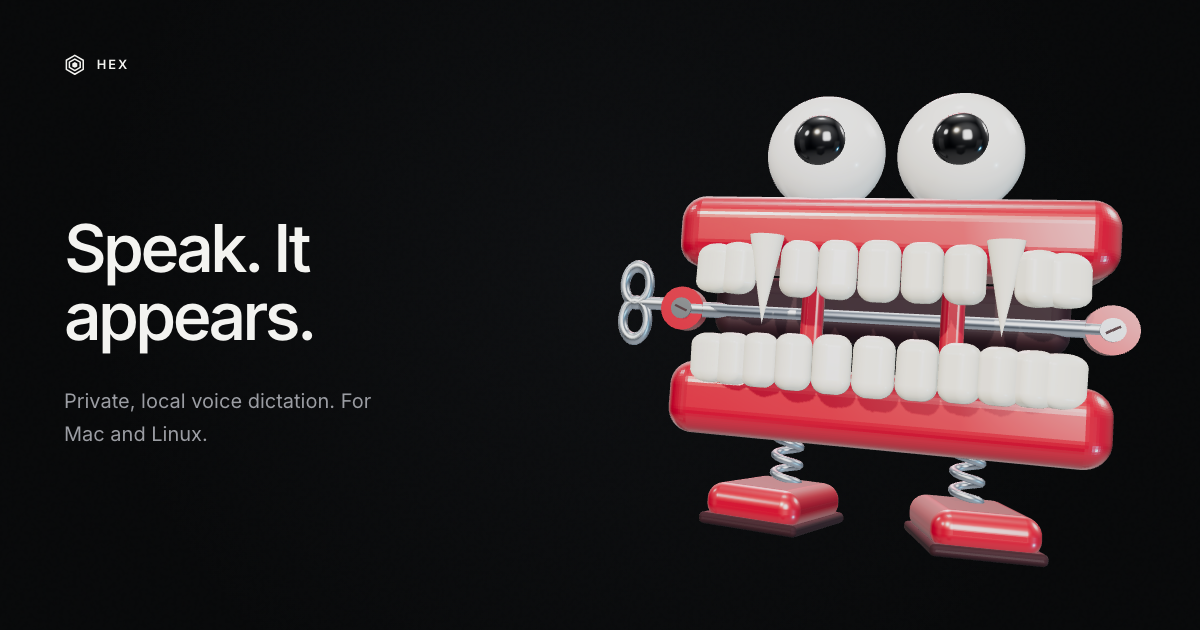
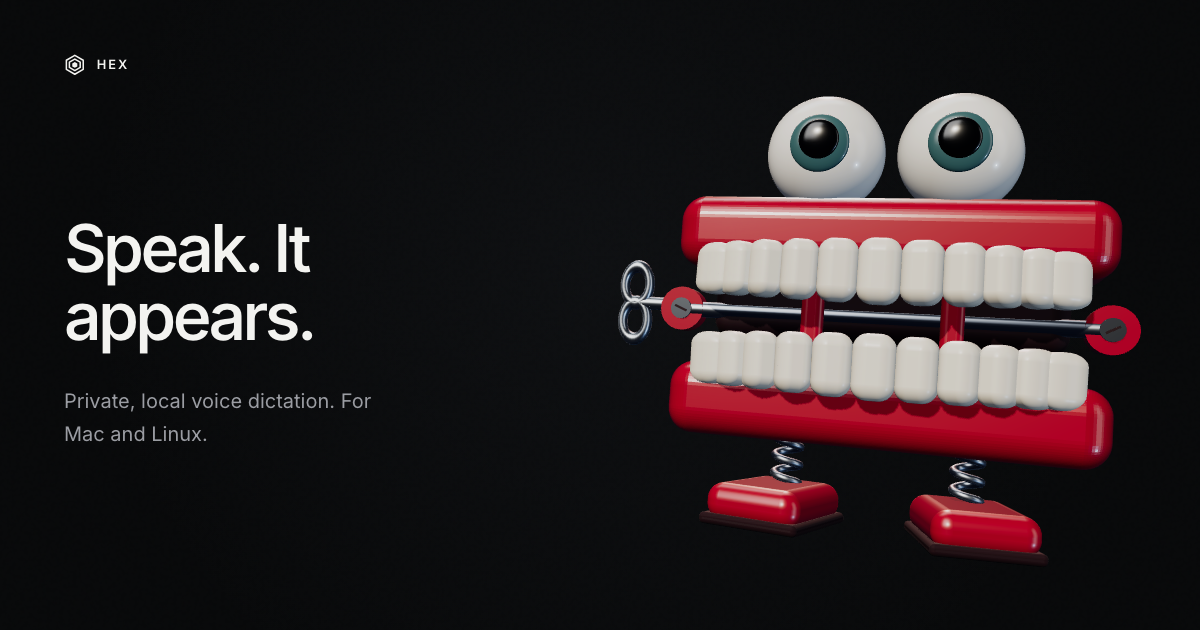
feat(site): refine the teeth and foreshadow their entrance with a spotlight

Changed region(s): [[0.4933, 0.1508, 0.9558, 0.9048]]

diff --git a/site/src/ChatteringTeeth.tsx b/site/src/ChatteringTeeth.tsx
@@ -1,6 +1,5 @@
 import { useEffect, useRef } from "react"
 import * as THREE from "three"
-import { RoomEnvironment } from "three/examples/jsm/environments/RoomEnvironment.js"
 import { RoundedBoxGeometry } from "three/examples/jsm/geometries/RoundedBoxGeometry.js"
 
 function createJaw(upper: boolean, toothMaterial: THREE.Material, shellMaterial: THREE.Material) {
@@ -24,8 +23,7 @@ function createJaw(upper: boolean, toothMaterial: THREE.Material, shellMaterial:
     const normalized = amount * 2 - 1
     const angle = normalized * 1.04
     const side = Math.abs(normalized)
-    const canine = upper && (index === 2 || index === 8)
-    const tooth = new THREE.Mesh(canine ? new THREE.ConeGeometry(0.24, 0.95, 40) : toothGeometry, toothMaterial)
+    const tooth = new THREE.Mesh(toothGeometry, toothMaterial)
 
     tooth.position.set(
       Math.sin(angle) * 2.02,
@@ -34,12 +32,7 @@ function createJaw(upper: boolean, toothMaterial: THREE.Material, shellMaterial:
     )
     tooth.rotation.y = -angle * 0.92
     tooth.rotation.z = upper ? normalized * 0.025 : -normalized * 0.025
-    tooth.scale.set(0.9 - side * 0.22, canine ? 1 : 0.88 - side * 0.13, 1 + side * 0.32)
-    if (canine) {
-      tooth.position.y -= 0.12
-      tooth.rotation.z = Math.PI
-      tooth.scale.z = 0.7
-    }
+    tooth.scale.set(0.94 - side * 0.24, 0.95 - side * 0.16, 1 + side * 0.32)
     jaw.add(tooth)
   }
 
@@ -61,26 +54,48 @@ export default function ChatteringTeeth() {
     })
     renderer.outputColorSpace = THREE.SRGBColorSpace
     renderer.toneMapping = THREE.ACESFilmicToneMapping
-    renderer.toneMappingExposure = 1.15
+    renderer.toneMappingExposure = 1
     renderer.shadowMap.enabled = true
     renderer.shadowMap.type = THREE.PCFSoftShadowMap
 
     const scene = new THREE.Scene()
     const pmrem = new THREE.PMREMGenerator(renderer)
-    const room = new RoomEnvironment()
-    const environment = pmrem.fromScene(room, 0.04)
+    // Three large softboxes give the lacquer readable highlights instead of
+    // reflecting a busy room. The environment is baked once, entirely locally.
+    const studio = new THREE.Scene()
+    studio.background = new THREE.Color(0x202433)
+    for (const [position, size, intensity] of [
+      [[-4, 5, 4], [4, 6], 5],
+      [[5, 1, 3], [2, 5], 2],
+      [[0, 6, -3], [5, 2], 4],
+    ] as const) {
+      const panel = new THREE.Mesh(
+        new THREE.PlaneGeometry(...size),
+        new THREE.MeshBasicMaterial({ color: new THREE.Color(intensity, intensity, intensity) }),
+      )
+      panel.position.set(position[0], position[1], position[2])
+      panel.lookAt(0, 0, 0)
+      studio.add(panel)
+    }
+    const environment = pmrem.fromScene(studio, 0.08)
     scene.environment = environment.texture
-    scene.environmentIntensity = 0.8
-    room.dispose()
+    scene.environmentIntensity = 0.85
+    studio.traverse(object => {
+      if (object instanceof THREE.Mesh) {
+        object.geometry.dispose()
+        object.material.dispose()
+      }
+    })
     pmrem.dispose()
 
     const camera = new THREE.PerspectiveCamera(36, 1, 0.1, 40)
     camera.position.set(0, 0, 9)
 
-    const toothMaterial = new THREE.MeshPhysicalMaterial({ color: 0xfff4d9, roughness: 0.25, clearcoat: 0.7, clearcoatRoughness: 0.16 })
-    const shellMaterial = new THREE.MeshPhysicalMaterial({ color: 0xa50725, roughness: 0.3, metalness: 0.18, clearcoat: 1, clearcoatRoughness: 0.18 })
-    const eyeMaterial = new THREE.MeshPhysicalMaterial({ color: 0xfffaf0, roughness: 0.16, clearcoat: 1 })
-    const pupilMaterial = new THREE.MeshPhysicalMaterial({ color: 0x030509, roughness: 0.12, clearcoat: 1 })
+    const toothMaterial = new THREE.MeshPhysicalMaterial({ color: 0xfff4df, roughness: 0.3, clearcoat: 0.45, clearcoatRoughness: 0.23 })
+    const shellMaterial = new THREE.MeshPhysicalMaterial({ color: 0xb20a29, roughness: 0.32, metalness: 0.08, clearcoat: 0.85, clearcoatRoughness: 0.23 })
+    const eyeMaterial = new THREE.MeshPhysicalMaterial({ color: 0xfffaf0, roughness: 0.23, clearcoat: 0.6 })
+    const pupilMaterial = new THREE.MeshPhysicalMaterial({ color: 0x030509, roughness: 0.2, clearcoat: 0.8 })
+    const irisMaterial = new THREE.MeshPhysicalMaterial({ color: 0x41676a, roughness: 0.3, clearcoat: 0.7 })
     const innerMaterial = new THREE.MeshStandardMaterial({ color: 0x260613, roughness: 0.75 })
     const metalMaterial = new THREE.MeshStandardMaterial({ color: 0xaab4c0, roughness: 0.24, metalness: 1 })
 
@@ -90,16 +105,20 @@ export default function ChatteringTeeth() {
     const lowerJaw = createJaw(false, toothMaterial, shellMaterial)
 
     const eyeGeometry = new THREE.SphereGeometry(0.64, 40, 28)
-    const pupilGeometry = new THREE.SphereGeometry(0.27, 32, 20)
+    const pupilGeometry = new THREE.SphereGeometry(0.21, 32, 20)
     const pupils: THREE.Mesh[] = []
     for (const x of [-0.7, 0.7]) {
       const eye = new THREE.Mesh(eyeGeometry, eyeMaterial)
       eye.position.set(x, 1.7, 0.54)
       upperJaw.add(eye)
 
+      const iris = new THREE.Mesh(new THREE.SphereGeometry(0.31, 40, 24), irisMaterial)
+      iris.position.set(x, 1.7, 1.105)
+      iris.scale.z = 0.28
+      upperJaw.add(iris)
       const pupil = new THREE.Mesh(pupilGeometry, pupilMaterial)
-      pupil.position.set(x, 1.7, 1.11)
-      pupil.scale.z = 0.58
+      pupil.position.set(x, 1.7, 1.18)
+      pupil.scale.z = 0.3
       pupil.userData.homeX = x
       pupils.push(pupil)
       upperJaw.add(pupil)
@@ -179,7 +198,7 @@ export default function ChatteringTeeth() {
       }
     })
     scene.add(new THREE.AmbientLight(0x879bb5, 0.3))
-    const keyLight = new THREE.DirectionalLight(0xfff2dc, 3.5)
+    const keyLight = new THREE.DirectionalLight(0xfff2dc, 2.4)
     keyLight.position.set(-3.5, 4.5, 6)
     scene.add(keyLight)
     keyLight.castShadow = true
@@ -187,12 +206,59 @@ export default function ChatteringTeeth() {
     Object.assign(keyLight.shadow.camera, { left: -8, right: 8, top: 8, bottom: -8, near: 0.1, far: 30 })
     keyLight.shadow.normalBias = 0.025
     keyLight.shadow.bias = -0.0001
-    const fillLight = new THREE.DirectionalLight(0x62bde8, 1.25)
+    const fillLight = new THREE.DirectionalLight(0xa4c9ef, 0.8)
     fillLight.position.set(4, -2, 3)
     scene.add(fillLight)
-    const rimLight = new THREE.DirectionalLight(0xff5273, 3)
+    const rimLight = new THREE.DirectionalLight(0xffb7a5, 2)
     rimLight.position.set(1, 3, -4)
     scene.add(rimLight)
+
+    // A visible pool of light announces the landing before the actor arrives.
+    const lightCanvas = document.createElement("canvas")
+    lightCanvas.width = lightCanvas.height = 256
+    const lightContext = lightCanvas.getContext("2d")!
+    const glow = lightContext.createRadialGradient(128, 128, 0, 128, 128, 128)
+    glow.addColorStop(0, "rgba(255, 226, 177, 0.8)")
+    glow.addColorStop(0.48, "rgba(255, 221, 162, 0.5)")
+    glow.addColorStop(0.75, "rgba(255, 216, 150, 0.12)")
+    glow.addColorStop(1, "rgba(255, 216, 150, 0)")
+    lightContext.fillStyle = glow
+    lightContext.fillRect(0, 0, 256, 256)
+    const lightTexture = new THREE.CanvasTexture(lightCanvas)
+    lightTexture.colorSpace = THREE.SRGBColorSpace
+    const poolMaterial = new THREE.MeshBasicMaterial({
+      map: lightTexture, transparent: true, depthWrite: false,
+      blending: THREE.AdditiveBlending, toneMapped: false,
+    })
+    const pool = new THREE.Mesh(new THREE.PlaneGeometry(1, 1), poolMaterial)
+    scene.add(pool)
+    const beamCanvas = document.createElement("canvas")
+    beamCanvas.width = 256
+    beamCanvas.height = 512
+    const beamContext = beamCanvas.getContext("2d")!
+    const beamGradient = beamContext.createLinearGradient(0, 0, 0, 512)
+    beamGradient.addColorStop(0, "rgba(255, 229, 186, 0)")
+    beamGradient.addColorStop(0.35, "rgba(255, 229, 186, 0.04)")
+    beamGradient.addColorStop(1, "rgba(255, 229, 186, 0.13)")
+    beamContext.fillStyle = beamGradient
+    beamContext.filter = "blur(8px)"
+    beamContext.beginPath()
+    beamContext.moveTo(128, 0)
+    beamContext.lineTo(244, 512)
+    beamContext.lineTo(12, 512)
+    beamContext.closePath()
+    beamContext.fill()
+    const beamTexture = new THREE.CanvasTexture(beamCanvas)
+    beamTexture.colorSpace = THREE.SRGBColorSpace
+    const beamMaterial = new THREE.MeshBasicMaterial({
+      map: beamTexture, transparent: true, depthWrite: false,
+      blending: THREE.AdditiveBlending, toneMapped: false,
+    })
+    const beam = new THREE.Mesh(new THREE.PlaneGeometry(1, 1), beamMaterial)
+    scene.add(beam)
+    const spotlight = new THREE.SpotLight(0xffdfb2, 0, 15, Math.PI / 7, 0.8, 0)
+    spotlight.position.set(0, 5, 4)
+    scene.add(spotlight, spotlight.target)
 
     const timer = new THREE.Timer()
     timer.connect(document)
@@ -246,6 +312,18 @@ export default function ChatteringTeeth() {
       const wide = window.innerWidth >= 1000
       const x = Math.max(0, stageWidth / 2 - root.scale.x * 3.5)
       const y = stageHeight / 2 - root.scale.x * 3.3 - 0.35
+      const lightIn = THREE.MathUtils.smoothstep(elapsed, 1.4, 2.4)
+      const lightOut = 1 - THREE.MathUtils.smoothstep(elapsed, 5, 6.2)
+      const lightLevel = poster ? 0 : reducedMotion.matches ? (elapsed >= 1.4 ? 0.6 : 0) : lightIn * lightOut
+      poolMaterial.opacity = lightLevel * 0.65
+      pool.position.set(0, y - root.scale.x * 2.45, -0.1)
+      pool.scale.set(root.scale.x * 8, root.scale.x * 1.2, 1)
+      const beamTop = stageHeight / 2 + 0.2
+      beam.position.set(0, (beamTop + pool.position.y) / 2, -0.2)
+      beam.scale.set(root.scale.x * 8, beamTop - pool.position.y, 1)
+      beamMaterial.opacity = lightLevel
+      spotlight.target.position.set(0, y, 0)
+      spotlight.intensity = lightLevel * 1.2
       const stops = wide
         ? [[0, y], [x, y], [x, -y], [0, -y], [-x, -y], [-x, y]]
         : [[0, y], [x * 0.45, y], [-x * 0.45, y]]
@@ -311,8 +389,13 @@ export default function ChatteringTeeth() {
       shellMaterial.dispose()
       eyeMaterial.dispose()
       pupilMaterial.dispose()
+      irisMaterial.dispose()
       innerMaterial.dispose()
       metalMaterial.dispose()
+      poolMaterial.dispose()
+      lightTexture.dispose()
+      beamMaterial.dispose()
+      beamTexture.dispose()
       environment.dispose()
       keyLight.shadow.map?.dispose()
       renderer.dispose()

diff --git a/site/index.html b/site/index.html
@@ -15,7 +15,7 @@
       content="Private, local voice dictation. Hold Option, speak, and release."
     />
     <meta property="og:url" content="https://hex.kitlangton.dev/" />
-    <meta property="og:image" content="https://hex.kitlangton.dev/og-teeth.png?v=2" />
+    <meta property="og:image" content="https://hex.kitlangton.dev/og-teeth.png?v=3" />
     <meta property="og:image:width" content="1200" />
     <meta property="og:image:height" content="630" />
     <meta property="og:image:alt" content="HEX — Speak. It appears. A grinning wind-up teeth toy with red shoes." />
@@ -25,7 +25,7 @@
       name="twitter:description"
       content="Private, local voice dictation. Hold Option, speak, and release."
     />
-    <meta name="twitter:image" content="https://hex.kitlangton.dev/og-teeth.png?v=2" />
+    <meta name="twitter:image" content="https://hex.kitlangton.dev/og-teeth.png?v=3" />
     <link rel="icon" href="/favicon.svg" type="image/svg+xml" />
     <title>HEX - Voice dictation for Mac and Linux</title>
   </head>

diff --git a/site/README.md b/site/README.md
@@ -6,13 +6,16 @@
 The wind-up teeth in `src/ChatteringTeeth.tsx` use separate body and foot groups:
 the soles remain planted during anticipation, the whole toy travels during the
 hop, and the body settles after contact. Wide screens use the perimeter; narrow
-screens use the space above the copy. The toy is hidden for three seconds, then
-hops in from the left to the center above the headline. Reduced motion reveals
-a still pose after the same delay. The canvas is click-through and decorative;
+screens use the space above the copy. A warm spotlight fades in from 1.4–2.4
+seconds, foreshadowing the landing. The toy stays hidden for three seconds, then
+hops in from the left to the center above the headline. The light fades away
+as roaming begins. Reduced motion reveals the light and toy as still poses at
+their respective delays. The canvas is click-through and decorative;
 the site has no microphone control or microphone access.
 
-The physical materials use a procedural studio environment for enamel, lacquer,
-and metal reflections, plus soft directional shadows. The environment is generated
+Rounded teeth, teal irises, and cherry-red lacquer use a three-softbox procedural
+studio environment for enamel and metal reflections, plus soft directional shadows.
+The environment is generated
 locally, with no remote model or lighting asset request.
 
 ## Social image

diff --git a/docs/features/README.md b/docs/features/README.md
@@ -57,11 +57,13 @@ for Sparkle and Linux updates; the signed Linux payload and verification key are
 unchanged. Hosting does not guarantee access through every corporate policy.
 
 The `.dev` site's decorative wind-up teeth have feet and hop around desktop
-margins, or above the copy on narrow screens. After three seconds hidden, it hops
-in from the left to the center above the headline. The canvas passes clicks through;
+margins, or above the copy on narrow screens. A warm spotlight fades in first
+(1.4–2.4 seconds). After three seconds hidden, the toy hops in from the left to
+the center above the headline; the light fades as roaming begins. The canvas passes clicks through;
 the website has no microphone button or microphone access. Reduced motion reveals
-a still pose after the delay. Physical enamel, lacquer, and metal materials use
-local studio reflections and soft shadows. Its Open Graph image uses the same model; see
+still light and toy poses at their respective delays. Rounded teeth, teal irises,
+enamel, lacquer, and metal materials use local softbox reflections and soft shadows.
+Its Open Graph image uses the same model; see
 [site authoring](../../site/README.md). Desktop/mobile animation frames were
 inspected, and reduced-motion canvas captures were pixel-identical four seconds
 apart in Chromium. These checks do not exercise a live microphone.
